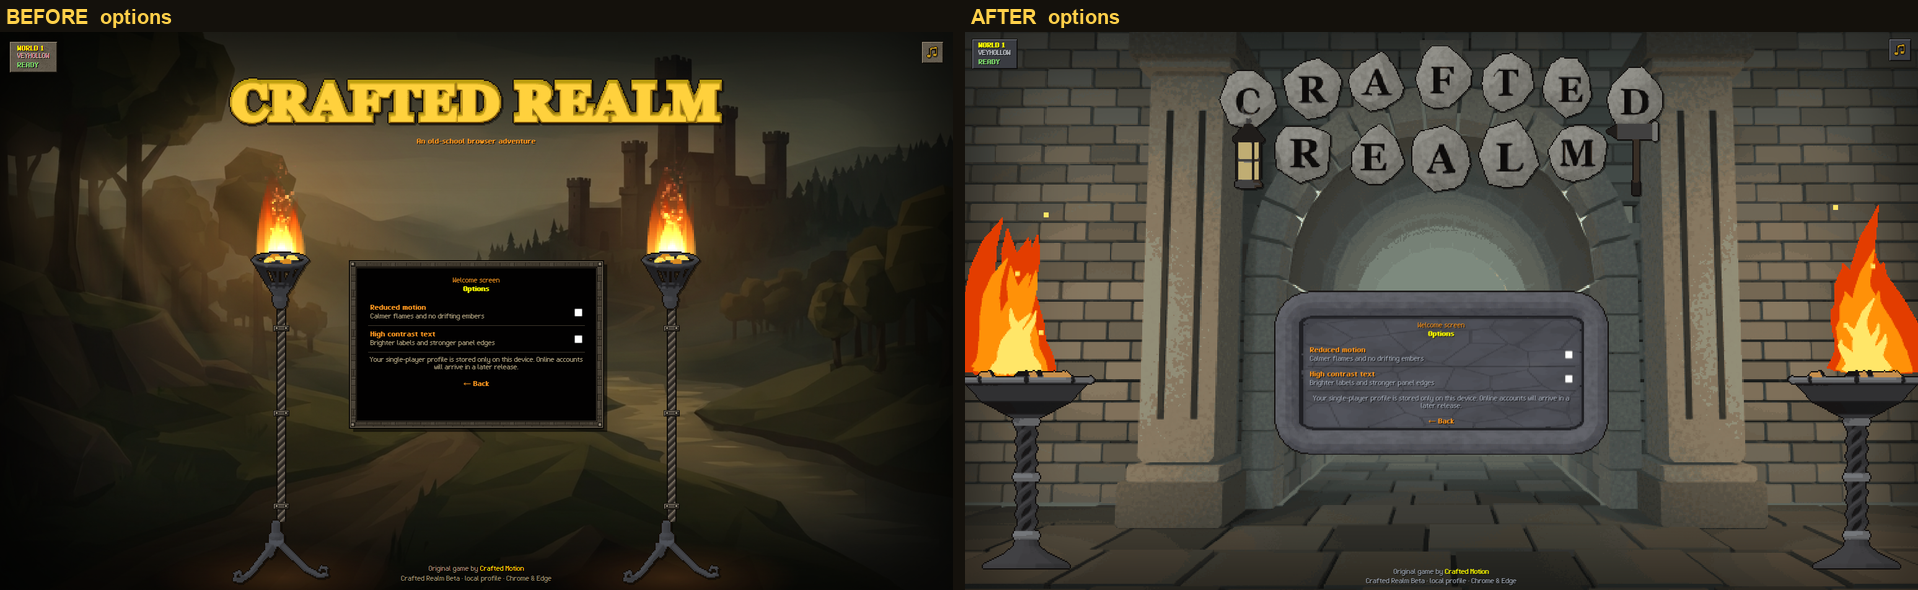
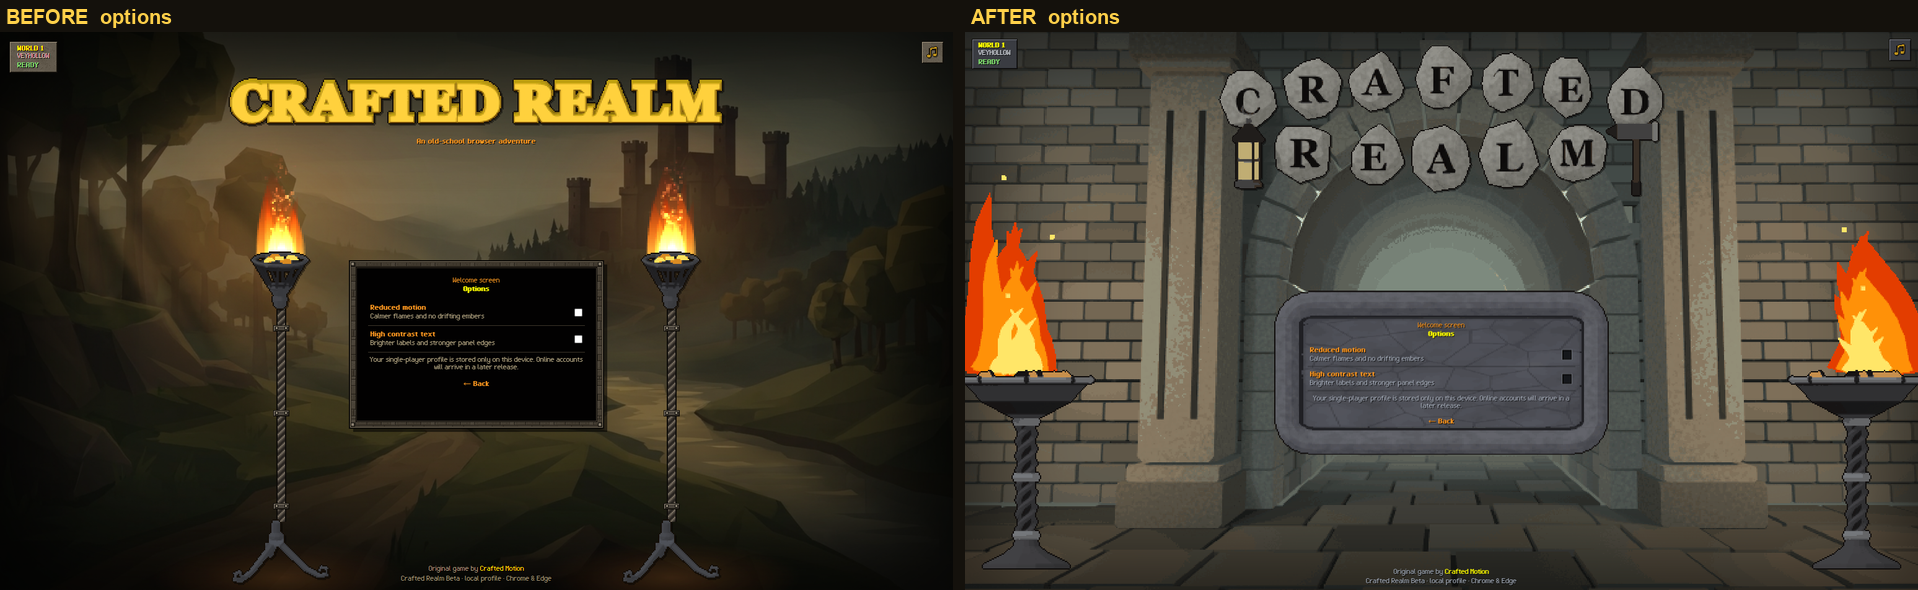
Login v4 pass 3: pixel checkboxes and a stone warning plaque; final captures, sheets and gates
- options: sunk slate checkboxes with the rendered green tick (no browser widgets)
- erase confirm: the ! sits on a small red stone plaque
- final before / after / reference sheets in scratchpad/holm_login_v4/sheets; style audit: login clean
- gates: node tests 76/76, smoke PASS + hidden-boot PASS; login assets ~253 KB (was ~594 KB)

Changed region(s): [[0.4922, 0.3356, 0.5537, 0.6102], [0.9536, 0.3661, 1.0, 0.6102]]

diff --git a/assets/ui/login_overhaul.css b/assets/ui/login_overhaul.css
@@ -102,10 +102,14 @@
 .login-profile-summary{display:grid;grid-template-columns:1fr 1fr;gap:4px;margin:6px 0;}
 .login-profile-summary span{padding:4px;color:#c8ccd4;font:12px var(--lg-font);text-shadow:1px 1px 0 #000;background:rgba(10,12,16,.45);box-shadow:inset 0 0 0 1px rgba(0,0,0,.6);}
 .login-profile-summary b{display:block;color:var(--lg-yellow);font:bold 12px var(--lg-font);}
-.login-warning-rune{width:34px;height:34px;margin:0 auto 6px;border-radius:0;line-height:34px;background:#57251d;color:#ffdd96;font:bold 24px var(--lg-font);box-shadow:0 0 0 2px #b25a42,0 0 0 3px var(--lg-ink);}
+.login-warning-rune{width:30px;height:30px;margin:0 auto 6px;border-radius:0;line-height:30px;background:#6a2014;color:#ffff00;font:bold 24px var(--lg-font);text-shadow:1px 1px 0 #000;
+  box-shadow:inset 1px 1px 0 #c0604a,inset -1px -1px 0 #2a0a05,0 0 0 1px var(--lg-ink);}
 .login-toggle{display:flex;align-items:center;justify-content:space-between;text-align:left;padding:6px 4px;border-bottom:1px solid rgba(0,0,0,.45);cursor:pointer;}
 .login-toggle span{display:block}.login-toggle b{display:block;font:bold 12px var(--lg-font);color:var(--lg-orange);text-shadow:1px 1px 0 #000}.login-toggle small{display:block;color:#a8b0bc;font:12px var(--lg-font);margin-top:2px;text-shadow:1px 1px 0 #000}
-.login-toggle input{accent-color:#b8862a;}
+.login-toggle input[type=checkbox]{-webkit-appearance:none;appearance:none;flex:0 0 15px;width:15px;height:15px;margin:0 2px 0 8px;border:0;border-radius:0;cursor:pointer;
+  background:#15171b;box-shadow:inset 0 0 0 1px var(--lg-ink),inset 1px 1px 0 1px #07080a,0 0 0 1px #6c7078;}
+.login-toggle input[type=checkbox]:checked{background:#15171b var(--spr-tick) center/11px 11px no-repeat;image-rendering:pixelated;}
+.login-toggle input[type=checkbox]:focus-visible{outline:2px solid #ffe08a;outline-offset:2px;}
 .login-local-note{color:#a8b0bc!important;font:12px var(--lg-font)!important;}
 
 /* corner plaques: small slate blocks */

diff --git a/index.html b/index.html
@@ -489,7 +489,7 @@
   #build-stamp.min{font-size:0;padding:5px 6px;}
   #build-stamp.min:before{content:'\25CF';font-size:11px;}  /* collapsed: a single dot */
 </style>
-<link rel="stylesheet" href="assets/ui/login_overhaul.css?v=14">
+<link rel="stylesheet" href="assets/ui/login_overhaul.css?v=15">
 </head>
 <body>
 <canvas id="game-canvas"></canvas>
